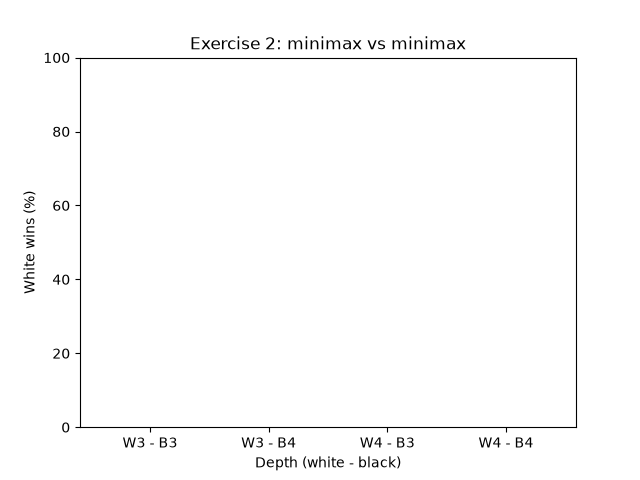
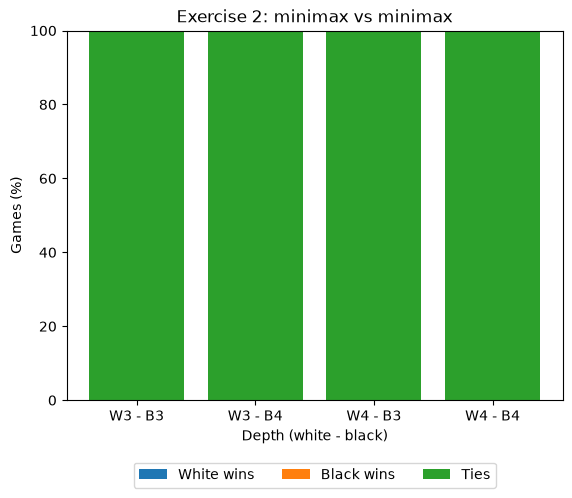
change a ex2

diff --git a/aichess.py b/aichess.py
@@ -1194,7 +1194,9 @@ def exercise2(n=3, depths=(3, 4)):
     import matplotlib.pyplot as plt
 
     labels = []
-    percentages = []
+    whitePerc = []
+    blackPerc = []
+    tiesPerc = []
 
     for depthWhite in depths:
         for depthBlack in depths:
@@ -1203,16 +1205,22 @@ def exercise2(n=3, depths=(3, 4)):
             print("  [white wins, black wins, ties] =", wins)
 
             labels.append("W" + str(depthWhite) + " - B" + str(depthBlack))
-            percentages.append(100 * wins[0] / n)
+            whitePerc.append(100 * wins[0] / n)
+            blackPerc.append(100 * wins[1] / n)
+            tiesPerc.append(100 * wins[2] / n)
 
-    # plot the percentage of white wins over the total for each combination of depths
+    # plot the percentage of white wins, black wins and ties for each combination of depths
+    # (stacked bars: the three percentages add up to 100)
     plt.figure()
-    plt.bar(labels, percentages)
+    plt.bar(labels, whitePerc, label="White wins")
+    plt.bar(labels, blackPerc, bottom=whitePerc, label="Black wins")
+    plt.bar(labels, tiesPerc, bottom=[w + b for w, b in zip(whitePerc, blackPerc)], label="Ties")
     plt.ylim(0, 100)
     plt.xlabel("Depth (white - black)")
-    plt.ylabel("White wins (%)")
+    plt.ylabel("Games (%)")
+    plt.legend(loc="upper center", bbox_to_anchor=(0.5, -0.15), ncol=3)
     plt.title("Exercise 2: minimax vs minimax")
-    plt.savefig("exercise2.png")
+    plt.savefig("exercise2.png", bbox_inches="tight")
     plt.show()
 
 

diff --git a/report_draft.md b/report_draft.md
@@ -52,7 +52,7 @@ Results over 3 games per combination (white wins / black wins / ties). Figure: `
 | 3 | 0 / 0 / 3 | 0 / 0 / 3 |
 | 4 | 0 / 0 / 3 | 0 / 0 / 3 |
 
-**a.** The percentage of white wins is 0 % in the four combinations.
+**a.** The percentage of white wins is 0 % in the four combinations: all the games (100 %) are ties, and Black does not win either (the figure shows white wins, black wins and ties).
 
 **b. Is the result symmetric? Why?** The result is the same in the four combinations: all the games are ties. The game is not symmetric in itself (White moves first, and the heuristic is written from White's point of view), but with depth 3 or 4 Black sees enough to find the defence (protecting the rook), so that asymmetry does not show up in the result. It only shows when the two depths are very different (see question 4).
 
